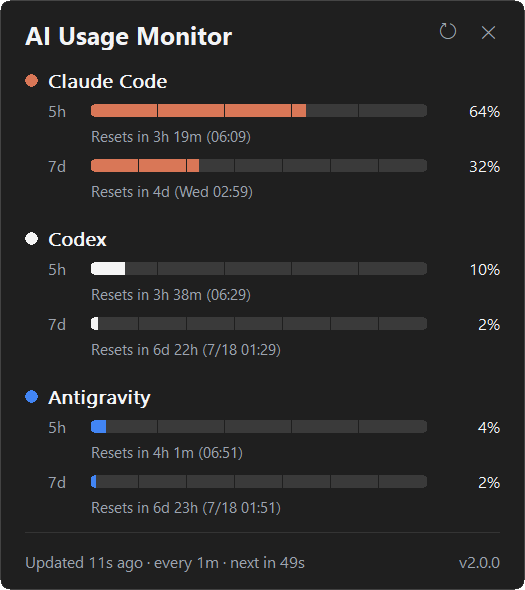
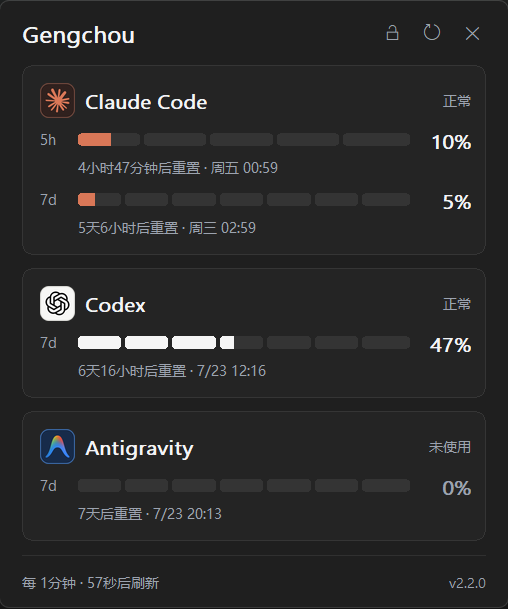
docs: rebrand AI Usage Monitor as Gengchou

diff --git a/README.md b/README.md
@@ -4,13 +4,15 @@
 
 <div align="center">
 
-# AI Usage Monitor
+# Gengchou
 
-**Claude Code · Codex · Antigravity usage, right on the Windows taskbar.**
+**AI quota at a glance.**
+
+<sub>AI usage monitor for the Windows taskbar · Formerly AI Usage Monitor</sub>
 
 ![Windows](https://img.shields.io/badge/platform-Windows-blue)
-[![CI](https://github.com/yinjianxxx/ai-usage-monitor/actions/workflows/ci.yml/badge.svg)](https://github.com/yinjianxxx/ai-usage-monitor/actions/workflows/ci.yml)
-[![Release](https://img.shields.io/github/v/release/yinjianxxx/ai-usage-monitor)](https://github.com/yinjianxxx/ai-usage-monitor/releases/latest)
+[![CI](https://github.com/yinjianxxx/gengchou/actions/workflows/ci.yml/badge.svg)](https://github.com/yinjianxxx/gengchou/actions/workflows/ci.yml)
+[![Release](https://img.shields.io/github/v/release/yinjianxxx/gengchou)](https://github.com/yinjianxxx/gengchou/releases/latest)
 [![License: MIT](https://img.shields.io/badge/License-MIT-yellow.svg)](LICENSE)
 
 <img src=".github/screenshot.png" alt="Detail popup showing Claude Code, Codex, and Antigravity usage with reset times" width="480">
@@ -19,10 +21,10 @@
 
 </div>
 
-AI Usage Monitor is a lightweight native Windows app that puts your current
+Gengchou is a lightweight native Windows app that puts your current
 provider-reported quota windows in a taskbar widget and compact tray icons, so
-checking your quota never means opening a dashboard. Originally derived
-from
+checking your quota never means opening a dashboard. Formerly AI Usage Monitor,
+it keeps the same settings and update path across the rename. Originally derived from
 [CodeZeno/Claude-Code-Usage-Monitor](https://github.com/CodeZeno/Claude-Code-Usage-Monitor),
 it is now developed independently ([provenance](PROVENANCE.md)).
 
@@ -30,25 +32,25 @@ it is now developed independently ([provenance](PROVENANCE.md)).
 
 Installation options, in recommended order:
 
-1. **WinGet (preferred when available).** The initial package status is tracked
-   in [microsoft/winget-pkgs#400395](https://github.com/microsoft/winget-pkgs/pull/400395).
-   Try:
+1. **WinGet (preferred when available).** Gengchou uses a new package identity;
+   the former AI Usage Monitor package was never published to WinGet. Once the
+   new package is available, install it with:
 
    ```powershell
-   winget install --id yinjianxxx.AIUsageMonitor --exact
+   winget install --id yinjianxxx.Gengchou --exact
    ```
 
-   If WinGet does not find `yinjianxxx.AIUsageMonitor` yet, use the ZIP below.
+   If WinGet does not find `yinjianxxx.Gengchou` yet, use the ZIP below.
 
 2. **Portable ZIP (recommended manual download).** Download
-   `ai-usage-monitor-windows-x64.zip` from the
-   [latest release](https://github.com/yinjianxxx/ai-usage-monitor/releases/latest),
+   `gengchou-windows-x64.zip` from the
+   [latest release](https://github.com/yinjianxxx/gengchou/releases/latest),
    extract it to any folder you can write to, and run
-   `ai-usage-monitor.exe`. The bundle includes both READMEs and the retained
+   `gengchou.exe`. The bundle includes both READMEs and the retained
    license and attribution notices.
 
 3. **Standalone EXE.** For a single-file download, get
-   `ai-usage-monitor.exe` from the same release and run it from any writable
+   `gengchou.exe` from the same release and run it from any writable
    folder.
 
 The executable is currently unsigned. Each release includes `SHA256SUMS` for
@@ -63,10 +65,10 @@ original project, not this app.
 <summary><b>Build from source</b> (Windows 10/11, stable Rust)</summary>
 
 ```powershell
-git clone https://github.com/yinjianxxx/ai-usage-monitor.git
-cd ai-usage-monitor
+git clone https://github.com/yinjianxxx/gengchou.git
+cd gengchou
 cargo build --release --locked
-.\target\release\ai-usage-monitor.exe
+.\target\release\gengchou.exe
 ```
 
 </details>
@@ -106,7 +108,7 @@ Release maintainers should also follow the [release checklist](docs/RELEASE_CHEC
 
 ### Taskbar widget
 
-<img src=".github/taskbar-widget.png" alt="AI Usage Monitor widget embedded in a Windows taskbar">
+<img src=".github/taskbar-widget.png" alt="Gengchou widget embedded in a Windows taskbar">
 
 The widget embeds directly in the taskbar. Each provider gets a content-sized,
 single-line badge with its logo, quota-window label, and short-window usage.
@@ -138,7 +140,7 @@ the number and adaptive bars follow the quota windows that provider actually
 reports. With no data, the number gives way to the provider's initial; near a
 limit, it turns a warning colour. Disable the setting to keep one neutral app
 icon shared with the executable. The preview above is rendered by the app —
-run `.\ai-usage-monitor.exe --dump-tray-icons .\preview` to export every
+run `.\gengchou.exe --dump-tray-icons .\preview` to export every
 provider-icon state.
 
 ## Provider requirements
@@ -160,6 +162,10 @@ each provider's own account rules:
 | Settings | `%APPDATA%\AIUsageMonitor\settings.json` |
 | Usage cache — percentages, quota-window metadata, and reset times only; never tokens | `%APPDATA%\AIUsageMonitor\usage-cache.json` |
 | Diagnostics (append-only, rotated) | `%LOCALAPPDATA%\AIUsageMonitor\diagnose.log` |
+
+The legacy `AIUsageMonitor` directory name is intentionally retained so an
+upgrade to Gengchou keeps existing settings, cache, diagnostics, and startup
+behavior without migration.
 
 To uninstall: disable **Start with Windows** if you enabled it, then delete
 the executable, `%APPDATA%\AIUsageMonitor`, and

diff --git a/docs/RELEASE_CHECKLIST.md b/docs/RELEASE_CHECKLIST.md
@@ -11,6 +11,9 @@ with a short note in the release runbook.
 - `cargo test --locked`
 - updater helper E2E: `Success` and `ChildExit`
 - `cargo build --release --locked`
+- Confirm the built file is `target/release/gengchou.exe`; inspect PE properties
+  for ProductName `Gengchou`, version/tag agreement, retained upstream
+  copyright/Comments, and the unchanged v2.1.0 application icon.
 - Debug compact-surface gate: `cargo run --locked -- --dump-widget
   tmp/compact-release-check`; inspect every generated theme, warning/error,
   High Contrast, tooltip, and mixed-digit alignment fixture.
@@ -85,7 +88,7 @@ with a short note in the release runbook.
   legible; warning row text must remain visible on the window canvas and every
   character inside warning/error pills must contrast with the highlight fill.
 - Retake `.github/screenshot.png`, `.github/taskbar-widget.png`, and
-  `.github/tray-icons.png` from the final v2.1.0 build; verify the README text,
+  `.github/tray-icons.png` from the final Gengchou build; verify the README text,
   alt text, provider marks, compact layout, and displayed version match.
 - With Codex Desktop signed in and the CLI absent or unavailable, confirm Codex
   usage still loads from a supported local session.
@@ -95,7 +98,17 @@ with a short note in the release runbook.
 - Verify a portable update releases the old PID and single-instance mutex,
   replaces the target, starts one new PID, and preserves the rollback backup
   until the new process reports ready.
-- Verify the WinGet path on an installed build when the package update exists.
+- Run AI Usage Monitor from its old path, exit it, then start `gengchou.exe`
+  from a different path. Confirm the app/provider tray icons remain visible,
+  update correctly, handle clicks/menus, survive Explorer restart, and are
+  removed cleanly even if Windows rejects the retained GUID and the app falls
+  back to its `uID` identity.
+- Confirm the draft release has exactly eight attachments: new and legacy EXE
+  and ZIP names, three compliance files, and `SHA256SUMS`. The manifest must
+  cover all seven payload assets, and all four EXE/ZIP assets must have build
+  provenance attestations.
+- Verify the WinGet path with `yinjianxxx.Gengchou` on an installed build when
+  the new package update exists; do not test the unpublished former ID.
 - Confirm the draft release re-download passes `SHA256SUMS` and GitHub
   attestation verification before the workflow publishes it.
 - Confirm release notes mention any one-time migration, including notification

diff --git a/PROVENANCE.md b/PROVENANCE.md
@@ -1,11 +1,14 @@
 # Provenance
 
-AI Usage Monitor is originally derived from
+Gengchou is originally derived from
 [CodeZeno/Claude-Code-Usage-Monitor](https://github.com/CodeZeno/Claude-Code-Usage-Monitor),
 based on v1.4.8 (commit `9b29972`). The project's initial goal was to survive
 Microsoft Remote Desktop transitions and explorer.exe taskbar rebuilds without
 crashing or permanently losing the embedded widget; it has since developed
-independently.
+independently. The independent project was initially released as AI Usage
+Monitor and adopted the Gengchou name on the 2.2.x line. The rename changes
+the public product identity while deliberately retaining internal Windows
+identity values so existing installations continue to use the same data.
 
 ## Relationship to the original project
 
@@ -16,16 +19,16 @@ independently.
 
 ## Identity isolation
 
-| Item | CodeZeno original | AI Usage Monitor |
+| Item | CodeZeno original | Gengchou (formerly AI Usage Monitor) |
 |---|---|---|
-| Package and EXE | claude-code-usage-monitor | ai-usage-monitor |
+| Package and EXE | claude-code-usage-monitor | gengchou |
 | Version line | 1.4.x | 2.x |
-| Single-instance mutex | Global\ClaudeCodeUsageMonitor | Global\AIUsageMonitor |
-| Window class | ClaudeCodeUsageMonitor | AIUsageMonitor |
-| Settings directory | %APPDATA%\ClaudeCodeUsageMonitor | %APPDATA%\AIUsageMonitor |
-| Diagnostic log | %TEMP%\claude-code-usage-monitor.log | %LOCALAPPDATA%\AIUsageMonitor\diagnose.log |
-| Updates | Upstream GitHub Releases | This project's GitHub Releases and independent EXE asset |
-| Update staging directory | %LOCALAPPDATA%\ClaudeCodeUsageMonitor\updates | %LOCALAPPDATA%\AIUsageMonitor\updates |
+| Single-instance mutex | Global\ClaudeCodeUsageMonitor | Global\AIUsageMonitor (retained) |
+| Window class | ClaudeCodeUsageMonitor | AIUsageMonitor (retained) |
+| Settings directory | %APPDATA%\ClaudeCodeUsageMonitor | %APPDATA%\AIUsageMonitor (retained) |
+| Diagnostic log | %TEMP%\claude-code-usage-monitor.log | %LOCALAPPDATA%\AIUsageMonitor\diagnose.log (retained) |
+| Updates | Upstream GitHub Releases | Gengchou GitHub Releases and independent EXE asset |
+| Update staging directory | %LOCALAPPDATA%\ClaudeCodeUsageMonitor\updates | %LOCALAPPDATA%\AIUsageMonitor\updates (retained) |
 
 ## Stability changes
 
@@ -56,7 +59,7 @@ cargo test --locked
 cargo build --release --locked
 ```
 
-Release binary: `target/release/ai-usage-monitor.exe`.
+Release binary: `target/release/gengchou.exe`.
 
 ## License
 

diff --git a/.github/release-notes/v2.2.0.md b/.github/release-notes/v2.2.0.md
@@ -1,0 +1,38 @@
+# Gengchou v2.2.0
+
+AI Usage Monitor is now **Gengchou**. The new name reflects the app's job:
+quietly keeping watch over recurring AI quota windows and their reset times.
+The Windows UI uses the unlocalized `Gengchou` brand; Chinese documentation
+also introduces the name as “更筹 Gengchou” (`gēng chóu`).
+
+## Rename and compatibility
+
+- Rename the application, executable, release assets, and public package
+  identity to Gengchou.
+- Keep the existing `%APPDATA%\AIUsageMonitor` settings/cache directory,
+  `%LOCALAPPDATA%\AIUsageMonitor` diagnostics/update directory, startup value,
+  window classes, mutex, and tray GUIDs. Existing users keep their data and
+  single-instance behavior without a migration step.
+- Preserve the application icon from v2.1.0. A possible icon refinement is
+  intentionally deferred rather than bundled into the rename.
+- Add a tray registration fallback for users who move the renamed executable
+  to a new path: if Windows rejects the existing GUID identity, the app retries
+  with its stable per-process `uID` identity so the tray icons remain visible
+  and interactive.
+
+## Updating from AI Usage Monitor
+
+The transition release publishes both the new `gengchou.exe` /
+`gengchou-windows-x64.zip` assets and compatibility copies under the former
+`ai-usage-monitor` names. Older updaters continue to locate and verify the old
+asset name; Gengchou selects the new asset name exactly. Both names are covered
+by `SHA256SUMS` and GitHub artifact attestations.
+
+Settings and usage data are not renamed or copied. After the update, Gengchou
+opens the same configuration and cache that AI Usage Monitor used.
+
+## WinGet
+
+The former `yinjianxxx.AIUsageMonitor` package was never published. Gengchou
+will enter WinGet as a new package, `yinjianxxx.Gengchou`, after the GitHub
+release and upgrade checks pass.

diff --git a/SECURITY.md b/SECURITY.md
@@ -14,13 +14,13 @@ version once a fix is available.
 ## Reporting a vulnerability
 
 Please do not disclose a suspected vulnerability in a public issue. Use
-[GitHub's private vulnerability reporting form](https://github.com/yinjianxxx/ai-usage-monitor/security/advisories/new)
+[GitHub's private vulnerability reporting form](https://github.com/yinjianxxx/gengchou/security/advisories/new)
 instead. If the form is unavailable, open a public issue containing no
 security details and ask the maintainer for a private contact channel.
 
 Include, when possible:
 
-- the affected AI Usage Monitor version and Windows version;
+- the affected Gengchou version and Windows version;
 - a concise description of the impact and the conditions required to trigger it;
 - reproducible steps or a minimal proof of concept;
 - whether credential handling, the self-updater, startup persistence, or file
@@ -33,5 +33,5 @@ basis; the maintainer will coordinate disclosure after the issue and a safe
 upgrade path have been assessed.
 
 Provider outages, account access, quota calculations, billing, and upstream
-API behavior are normally outside this project's security scope unless AI
-Usage Monitor introduces an additional vulnerability.
+API behavior are normally outside this project's security scope unless
+Gengchou introduces an additional vulnerability.

diff --git a/THIRD_PARTY_NOTICES.md b/THIRD_PARTY_NOTICES.md
@@ -1,6 +1,6 @@
 # Third-Party Notices
 
-AI Usage Monitor contains modified material from, or was informed by, the
+Gengchou (formerly AI Usage Monitor) contains modified material from, or was informed by, the
 following open-source projects.
 
 ## CodeZeno/Claude-Code-Usage-Monitor
